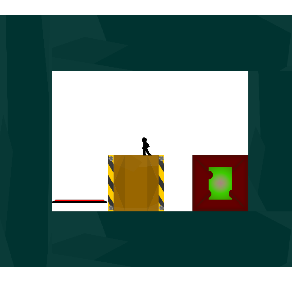
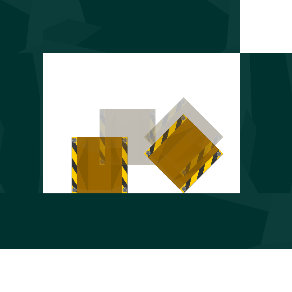
NO MESSAGE SET

diff --git a/readme.md b/readme.md
@@ -33,6 +33,8 @@ This is a game that i made to be an improvement to the games [vex](https://www.n
     - **addNewPoint**: creates a new point right after this in the path
     - **canAttachToThings**: allows the block to attach to other things that are not paths, for paths change **canAttachToPaths**
     - **rotationSpeed**: the speed at which the block will rotate
+    - **magnitude**: how far the block will travel in it's designated direction
+    - **speed**: the speed at which the rotator rotates blocks
     - **signalOutputId**: the id that will be sent
     - **level**: the level that you will be sent to
     - **requiredLevelCount**: the amount of levels that you must beat before being able to enter this level
@@ -62,7 +64,6 @@ This is a game that i made to be an improvement to the games [vex](https://www.n
     - **dischargeTime**: the time it takes for a signal to be discharged
     - **onSignalActivationWhileDischarging**: what happens when its signal is activating while discharging
     - **id**: the ziplines with the same id will be connected
-    - **speed**: the speed at which the rotator rotates blocks
 -->
 
 - ## Controls
@@ -479,6 +480,8 @@ This is a game that i made to be an improvement to the games [vex](https://www.n
     - scalable
     - canAttachToPaths
     - ### settings:
+      - **magnitude**: how far the block will travel in it's designated direction
+      - **speed**: the speed at which the rotator rotates blocks
       - **canAttachToPaths**: allows this block to attach to paths
       - **color**: sets the modulate property
 
@@ -488,6 +491,8 @@ This is a game that i made to be an improvement to the games [vex](https://www.n
     - scalable
     - canAttachToPaths
     - ### settings:
+      - **magnitude**: how far the block will travel in it's designated direction
+      - **speed**: the speed at which the rotator rotates blocks
       - **canAttachToPaths**: allows this block to attach to paths
       - **color**: sets the modulate property
 
@@ -497,6 +502,8 @@ This is a game that i made to be an improvement to the games [vex](https://www.n
     - scalable
     - canAttachToPaths
     - ### settings:
+      - **magnitude**: how far the block will travel in it's designated direction
+      - **speed**: the speed at which the rotator rotates blocks
       - **canAttachToPaths**: allows this block to attach to paths
       - **color**: sets the modulate property
 
@@ -506,6 +513,8 @@ This is a game that i made to be an improvement to the games [vex](https://www.n
     - scalable
     - canAttachToPaths
     - ### settings:
+      - **magnitude**: how far the block will travel in it's designated direction
+      - **speed**: the speed at which the rotator rotates blocks
       - **canAttachToPaths**: allows this block to attach to paths
       - **color**: sets the modulate property
 
